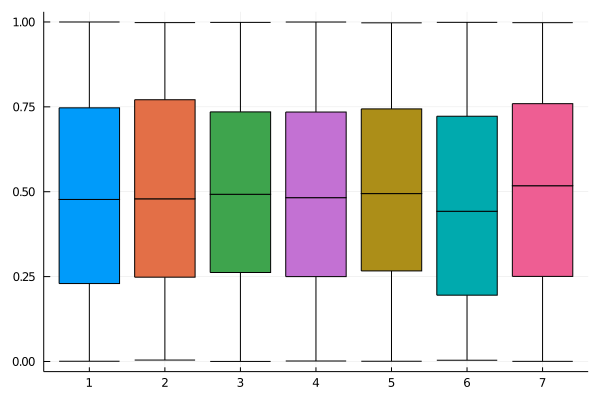
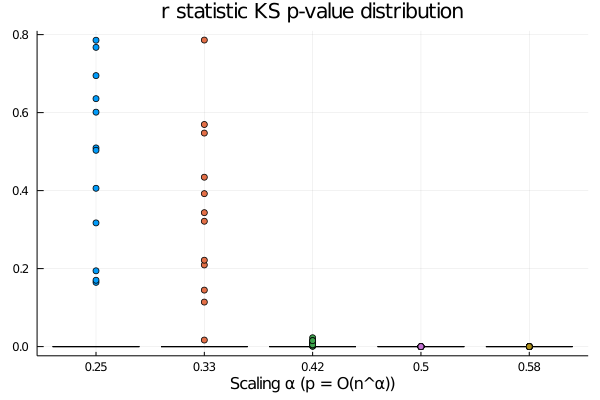
add more description of simulations and run some more simulations in high dimension

diff --git a/writing/ggm.tex b/writing/ggm.tex
@@ -88,7 +88,7 @@ Note that while $T$ is a projection, we find that $T_{\mathcal{C}_1}T \neq T$, s
     \end{matrix}\right).
 \end{equation*}
 
-\note{Note: we observe numerically that $\hat\Omega^{(\mathcal{C}_2)}_{\Gamma \Gamma} + \hat\Omega^{(\mathcal{C}_1)}_{\Gamma 1}\hat\Omega^{(\mathcal{C}_1)}_{1 \Gamma} /\hat\Omega^{(\mathcal{C}_1)}_{11} \approx \hat\Omega^{(\mathcal{C}_1)}_{\Gamma \Gamma} + \hat\Omega^{(\mathcal{C}_2)}_{\Gamma 2}\hat\Omega^{(\mathcal{C}_2)}_{2 \Gamma} /\hat\Omega^{(\mathcal{C}_2)}_{22}$. Could the gap be due to numerical errors? Might be true and provable equality using normality.}
+% \note{Note: we observe numerically that $\hat\Omega^{(\mathcal{C}_2)}_{\Gamma \Gamma} + \hat\Omega^{(\mathcal{C}_1)}_{\Gamma 1}\hat\Omega^{(\mathcal{C}_1)}_{1 \Gamma} /\hat\Omega^{(\mathcal{C}_1)}_{11} \approx \hat\Omega^{(\mathcal{C}_1)}_{\Gamma \Gamma} + \hat\Omega^{(\mathcal{C}_2)}_{\Gamma 2}\hat\Omega^{(\mathcal{C}_2)}_{2 \Gamma} /\hat\Omega^{(\mathcal{C}_2)}_{22}$. Could the gap be due to numerical errors? Might be true and provable equality using normality.}
 
 \subsection{Modified likelihood root}
 
@@ -111,18 +111,44 @@ with
 
 In our case, $\theta = \text{Upper}(\Omega)$ and the parameter of interest is $\psi = \Omega_{12}$ with a tested value of $\psi = \psi_0 = 0$. We can than use results from the previous sections for expressions of $\hat\Omega$ in the unconstrained case, for estimation of $\hat\theta$, and in the constrained case, for estimation of $\hat\theta_{\psi_0}$.
 
-\subsection{Implementation}
+\begin{algorithm}\label{alg-omega-sampling}
+    \SetAlgoLined
+    \KwIn{Dimension $d$}
+    \KwResult{Constrained precision matrix $\Omega$}
+
+     $\Omega := 0$\;
+     \While{$|\Omega| \leq 0$ }{
+      Sample $\Omega \sim \mathcal{W}(\mathbb{1}_d, d)$ \;
+      Set $\Omega_{12} = \Omega_{21} = 0$\;
+     }
+     \caption{Sampling of a precision matrix for a GGM with $X_1 \independent X_2 | X_3, \ldots, X_d$}
+\end{algorithm}
+
+\subsection{Simulations}
 We implement a suite of benchmarks to analyze and compare the different test statistics for testing the hypothesis
-\begin{align*}
-    H_0: X_1 \independent X_2 | X_3, \ldots, X_p && \text{ vs. } && H_1: X_1 \notindependent X_2 | X_3, \ldots, X_p.
-\end{align*}
-To do this, we sample $n$ observations from the multivariate normal distribution $\mathcal{N}_p(0, \Omega^{-1})$ satisfying the null hypothesis, compute several test statistics and compare their distributions for different values of $n$ and $p$.
+\begin{align}\label{eq-sim-test}
+    H_0: X_1 \independent X_2 | X_3, \ldots, X_d && \text{ vs. } && H_1: X_1 \notindependent X_2 | X_3, \ldots, X_d 
+\end{align}
+where $X \sim \mathcal{N}_d(0, \Omega^{-1})$ and the precision matrix is $\Omega \in \mathcal{S}_p$. In this setup, the quantity of interest is $\Omega$ and the number of scalar parameters to estimate is $p = d(d-1)/2$. 
 
-The precision matrix $\Omega$ is sampled from a Wishart distribution with $p$ degrees of freedom and the identity scaling in which the null hypothesis is integrated by setting $\Omega_{12} = \Omega_{21} = 0$.
 
-For each sample of $\Omega$, we can generate a random sample $X^{(1)}, \ldots, X^{(n)}$ and  compute several test statistics: the log likelihood ratio $w$, the signed likelihood root $r$ and the modified likelihood root $r^\star$. 
+We are interested in evaluating the normal approximation of $r$ and $r^\star$ under the null hypothesis (\ref{eq-sim-test}) for different scaling between the number of observations and the number of parameters, $p = O(n^\alpha)$ where $\alpha \in \{3/12, 4/12, 5/15, 6/12, 7/12, 8/12, 9/12\}$ is the scaling parameter. To do this, we fix the number of observations to $n = 1000$ and compute for each value of $\alpha$ a set of $N_p=500$ p-values for $r$ and $r^\star$ testing the hypothesis that $r$, respectively $r^\star$, is normally distributed. 
 
-Under the null hypothesis, we expect $w, r$ and $r^\star$ should asymptotically be respectively distributed according to the $\chi_2^1$, $N(0,1)$ and $N(0,1)$ distributions. We first very this visually by plotting the distribution of the p-values for each of these distributional results which follow a uniform distribution on $[0, 1]$.
+For a given value of $\alpha$, we perform $N_{\text{sim}} = 1000$ experiments to sample values of $r$ and $r^\star$ under the null hypothesis (\ref{eq-sim-test}). A Kolmgrov-Smirnov test is used to compute p-values for the null hypothesis that $r$ and $r^\star$ are respectively normally distributed.
+
+In each experiment, we sample $n$ observations from the multivariate normal distribution $X^{(1)}, \ldots, X^{(n)} \sim \mathcal{N}_d(0, \Omega^{-1})$ with $p = n^\alpha$ and $d = p^{1/2}$. The precision matrix $\Omega$ is sampled from a Wishart distribution with $d$ degrees of freedom and the identity scaling in which the null hypothesis (\ref{eq-sim-test}) is integrated by setting $\Omega_{12} = \Omega_{21} = 0$. This is done by rejection sampling as displayed in Algorithm \ref{alg-omega-sampling}. The sample $X^{(1)}, \ldots, X^{(n)}$ is then used to compute values of $r$ and $r^\star$ according to the previous sections.
+
+The results show that the normal approximation to the distribution of $r$ and $r^\star$ hold for every scaling parameter $\alpha$ we have tried. While the normal approximation to the $r$ statistic is expected to break for $p = O(n^{1/2})$, we do not observe this behaviour. To further explore a possible breaking point, we simulated one experiment with $n = 1000$ and $p = 990 (d = 45)$ and plotted the distribution of the p-values testing the null hypotheses $w \sim \chi^2_1$, which also seem to not expose a break behaviour.
+
+\begin{figure}[hbtp]
+    \centering
+    \includegraphics[scale=0.5]{r}
+    \includegraphics[scale=0.5]{rstar}
+    \includegraphics[scale=0.5]{w_largep}
+\end{figure}
+
+\newpage
+
 
 \subsection{Multivariate normal distribution as an exponential family}
 To benefit from the many existing results concerning exponential families, we reformulate the density (\ref{eq-density-omega}) as an exponential family with sufficient statistic $T$ and natural parameter $\theta \in \text{vec}(\mathcal{S}_p)$. 

diff --git a/writing/main.tex b/writing/main.tex
@@ -17,6 +17,7 @@
 \usepackage{bbm}
 \usepackage{enumerate}
 \usepackage{bbold}
+\usepackage[ruled,vlined]{algorithm2e}
 
 \makeatletter
 \newcommand{\xout}[1]{%
@@ -67,6 +68,8 @@
 % \input{summary}
 % \input{definitions}
 \input{ggm}
+
+\input{numerics}
 
 % \input{exponential_fam_facts}
 

diff --git a/writing/numerics.tex b/writing/numerics.tex
@@ -1,0 +1,1 @@
+s
